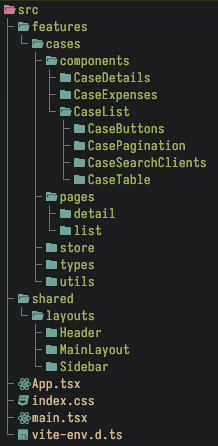
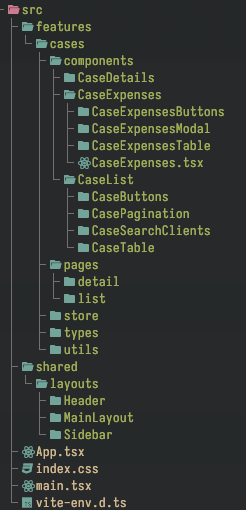
feat: Case expenses modularized

Changed region(s): [[0.0, 0.0, 0.9633, 1.0]]

diff --git a/src/features/cases/components/CaseExpenses/CaseExpenses.tsx b/src/features/cases/components/CaseExpenses/CaseExpenses.tsx
@@ -1,7 +1,8 @@
-import styles from "./CaseExpenses.module.css";
-import { useState } from "react";
-import AddExpenseModal from "./AddExpenseModal";
 import { useExpenseStore } from "@cases/store/expenseStore";
+import { useState } from "react";
+import CaseExpensesButtons from "./CaseExpensesButtons/CaseExpensesButtons";
+import AddExpenseModal from "./CaseExpensesModal/AddExpenseModal";
+import CaseExpensesTable from "./CaseExpensesTable/CaseExpensesTable";
 
 export default function CaseExpenses() {
   const [isModalOpen, setIsModalOpen] = useState(false);
@@ -22,57 +23,21 @@ export default function CaseExpenses() {
   };
 
   return (
-    <div>
-      <div className={styles.header}>
-        <div className={styles.actions}>
-          <button
-            className={styles.deleteButton}
-            onClick={handleDelete}
-            disabled={selectedExpenses.length === 0}
-          >
-            Delete
-          </button>
-          <button
-            className={styles.addButton}
-            onClick={() => setIsModalOpen(true)}
-          >
-            Add Expense
-          </button>
-        </div>
-      </div>
-      <table className={styles.table}>
-        <thead>
-          <tr>
-            <th></th>
-            <th>Label</th>
-            <th>Amount</th>
-            <th>Deducted From</th>
-          </tr>
-        </thead>
-        <tbody>
-          {expenses.map((expense, index) => (
-            <tr
-              key={expense.id}
-              className={index % 2 != 0 ? styles.oddRows : ""}
-            >
-              <td>
-                <input
-                  type="checkbox"
-                  checked={selectedExpenses.includes(expense.id)}
-                  onChange={() => handleCheckboxChange(expense.id)}
-                />
-              </td>
-              <td>{expense.label}</td>
-              <td>${expense.amount.toFixed(2)}</td>
-              <td>{expense.deductedFrom}</td>
-            </tr>
-          ))}
-        </tbody>
-      </table>
+    <>
+      <CaseExpensesButtons
+        handleDelete={handleDelete}
+        selectedExpenses={selectedExpenses}
+        setIsModalOpen={setIsModalOpen}
+      />
+      <CaseExpensesTable
+        expenses={expenses}
+        handleCheckboxChange={handleCheckboxChange}
+        selectedExpenses={selectedExpenses}
+      />
       <AddExpenseModal
         isOpen={isModalOpen}
         onClose={() => setIsModalOpen(false)}
       />
-    </div>
+    </>
   );
 }

diff --git a/src/features/cases/components/CaseExpenses/CaseExpensesTable/CaseExpensesTable.tsx b/src/features/cases/components/CaseExpenses/CaseExpensesTable/CaseExpensesTable.tsx
@@ -1,0 +1,40 @@
+import type { CaseExpensesTableProps } from "@cases/types";
+import styles from "./CaseExpensesTable.module.css";
+
+export default function CaseExpensesTable({
+  expenses,
+  handleCheckboxChange,
+  selectedExpenses,
+}: CaseExpensesTableProps) {
+  return (
+    <table className={styles.table}>
+      <thead>
+        <tr>
+          <th></th>
+          <th>Label</th>
+          <th>Amount</th>
+          <th>Deducted From</th>
+        </tr>
+      </thead>
+      <tbody>
+        {expenses.map((expense, index) => (
+          <tr
+            key={expense.id}
+            className={index % 2 !== 0 ? styles.oddRows : ""}
+          >
+            <td>
+              <input
+                type="checkbox"
+                checked={selectedExpenses.includes(expense.id)}
+                onChange={() => handleCheckboxChange(expense.id)}
+              />
+            </td>
+            <td>{expense.label}</td>
+            <td>${expense.amount.toFixed(2)}</td>
+            <td>{expense.deductedFrom}</td>
+          </tr>
+        ))}
+      </tbody>
+    </table>
+  );
+}

diff --git a/src/features/cases/components/CaseExpenses/CaseExpensesButtons/CaseExpensesButtons.tsx b/src/features/cases/components/CaseExpenses/CaseExpensesButtons/CaseExpensesButtons.tsx
@@ -1,0 +1,28 @@
+import styles from "./CaseExpensesButtons.module.css";
+import type { CaseExpensesButtonsProps } from "@cases/types";
+
+export default function CaseExpensesButtons({
+  handleDelete,
+  selectedExpenses,
+  setIsModalOpen,
+}: CaseExpensesButtonsProps) {
+  return (
+    <div className={styles.header}>
+      <div className={styles.actions}>
+        <button
+          className={styles.deleteButton}
+          onClick={handleDelete}
+          disabled={selectedExpenses.length === 0}
+        >
+          Delete
+        </button>
+        <button
+          className={styles.addButton}
+          onClick={() => setIsModalOpen(true)}
+        >
+          Add Expense
+        </button>
+      </div>
+    </div>
+  );
+}

diff --git a/src/features/cases/components/CaseExpenses/CaseExpensesButtons/CaseExpensesButtons.module.css b/src/features/cases/components/CaseExpenses/CaseExpensesButtons/CaseExpensesButtons.module.css
@@ -28,36 +28,3 @@
   cursor: pointer;
   font-size: 0.62rem;
 }
-
-.oddRows {
-  background-color: #f1f2f4;
-}
-
-.table {
-  width: 100%;
-  border-collapse: separate;
-  border-spacing: 0 0.82rem;
-}
-
-.table th,
-.table td {
-  padding: 12px;
-  text-align: left;
-}
-
-.table th {
-  font-weight: 800;
-  color: #374151;
-}
-
-.table tbody tr:hover {
-  background-color: #def7eb;
-}
-
-.table input[type="checkbox"] {
-  width: 16px;
-  height: 16px;
-  border: 1px solid #d1d5db;
-  border-radius: 4px;
-  cursor: pointer;
-}

diff --git a/src/features/cases/types/index.ts b/src/features/cases/types/index.ts
@@ -47,6 +47,18 @@ export interface AddExpenseModalProps {
   onClose: () => void;
 }
 
+export interface CaseExpensesTableProps {
+  expenses: CaseExpense[];
+  handleCheckboxChange: (id: number) => void;
+  selectedExpenses: Array<number>;
+}
+
+export interface CaseExpensesButtonsProps {
+  handleDelete: () => void;
+  selectedExpenses: Array<number>;
+  setIsModalOpen: (isOpen: boolean) => void;
+}
+
 export interface CaseState {
   cases: Case[];
   expenses: typeof expenses;

diff --git a/src/features/cases/components/CaseExpenses/CaseExpensesTable/CaseExpensesTable.module.css b/src/features/cases/components/CaseExpenses/CaseExpensesTable/CaseExpensesTable.module.css
@@ -1,0 +1,32 @@
+.table {
+  width: 100%;
+  border-collapse: separate;
+  border-spacing: 0 0.82rem;
+}
+
+.table th,
+.table td {
+  padding: 12px;
+  text-align: left;
+}
+
+.table th {
+  font-weight: 800;
+  color: #374151;
+}
+
+.table tbody tr:hover {
+  background-color: #def7eb;
+}
+
+.table input[type="checkbox"] {
+  width: 16px;
+  height: 16px;
+  border: 1px solid #d1d5db;
+  border-radius: 4px;
+  cursor: pointer;
+}
+
+.oddRows {
+  background-color: #f1f2f4;
+}

diff --git a/.github/README.md b/.github/README.md
@@ -15,6 +15,7 @@ The application includes:
 - Routing with `React Router`.
 - UI consistency. Even if we don't have a Figma design, we follow the images guidelines.
 - Absolute imports with vite-tsconfig-paths.
+- Pure CSS for styling (modules). I'm a big fan of Tailwind, but writing CSS sometimes is a good way to keep my styling knowledge fresh.
 
 ## Installation
 
